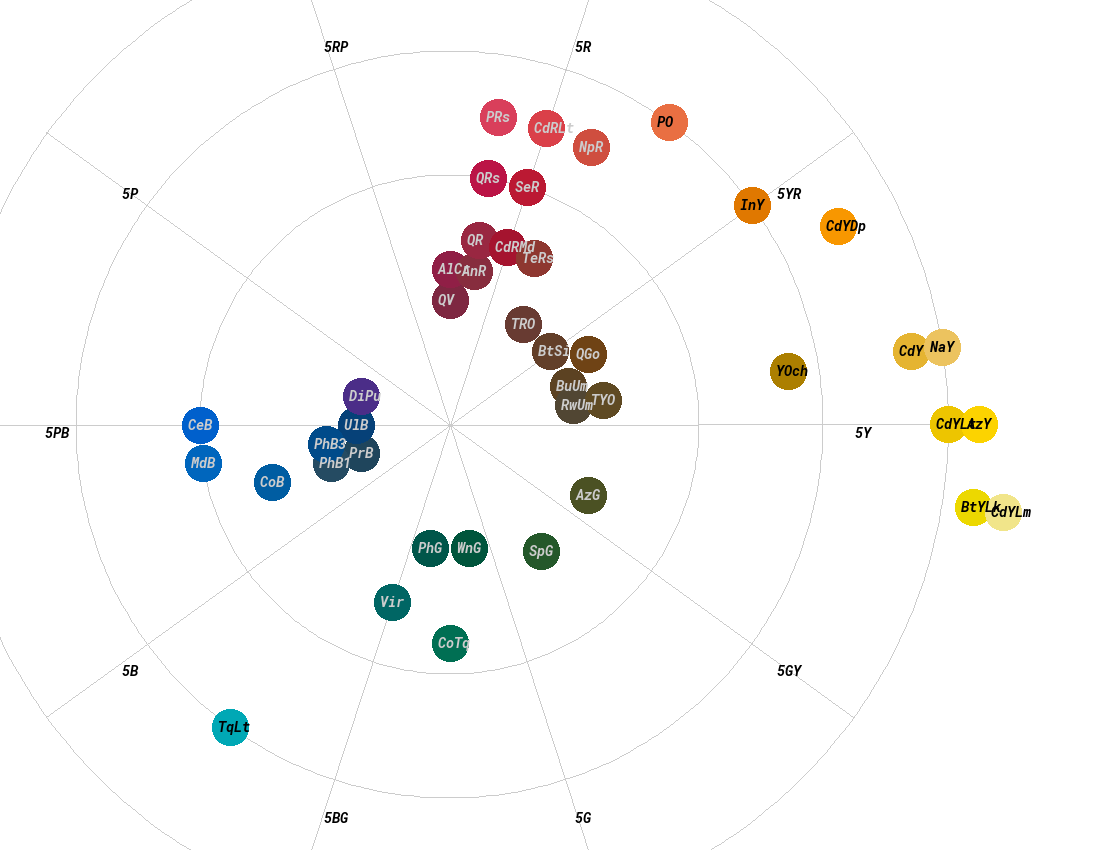
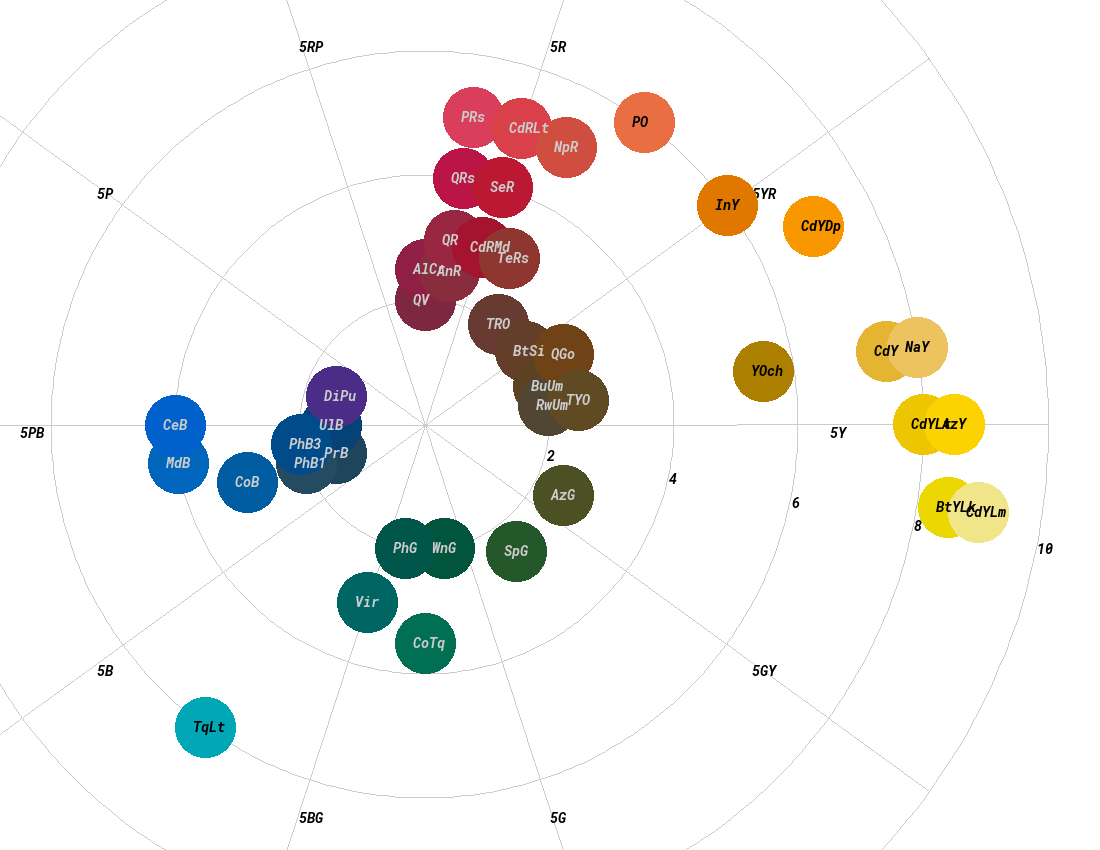
better polar graphics

diff --git a/palette_page/palette_grid.py b/palette_page/palette_grid.py
@@ -31,7 +31,7 @@ class PaletteGrid:
     image_w = 1100
     image_h = 850
 
-    x_center = 450
+    x_center = 425
     y_center = 425
 
     x_origin = 20
@@ -48,7 +48,8 @@ class PaletteGrid:
     patch_h = 40
     patch_h_stride = 90
 
-    dot_r = 18
+    dot_r = 30
+    dot_r_outer = 40
     polar_value_max = 6.5
 
     def __init__(self, polar=False):
@@ -59,8 +60,8 @@ class PaletteGrid:
         self.img = Image.new('RGB', (self.image_w, self.image_h), color = 'white')
         self.draw = ImageDraw.Draw(self.img)
 
-    def get_x(self, hue):
-        return self.x_origin + self.patch_w_stride * hue/10
+    def get_x(self, astm_hue):
+        return self.x_origin + self.patch_w_stride * astm_hue / 10.
 
     def get_y(self, value):
         return self.y_origin + self.patch_h_stride * (9.5 - value)
@@ -68,51 +69,74 @@ class PaletteGrid:
     def get_r(self, value):
         return value * (self.y_center - self.y_origin) / self.polar_value_max
 
-    def get_polar_xy(self, hue, value):
+    def get_polar_xy(self, astm_hue, value):
         r = self.get_r(value)
-        theta = hue * math.pi / 50.
+        theta = astm_hue * 2. * math.pi / 100.
         x = self.x_center + r * math.sin(theta)
         y = self.y_center - r * math.cos(theta)
         return (x, y)
 
     def draw_polar_grid(self):
-        for value in [4, 6, 8]:
+        for value in range(2, 12, 2):
             r = self.get_r(value)
             xy = (self.x_center - r, self.y_center - r, self.x_center + r, self.y_center + r)
             self.draw.ellipse(xy, fill = None, outline = '#cccccc')
+            xy = self.get_polar_xy(28, value)
+            self.draw.text(xy,
+                str(value), font = self.small_font, fill = '#000000', align = 'left')
 
-        for hue_label, hue in HUES:
+        for hue_label, astm_hue in HUES:
             if hue_label == '10RP':
                 continue
-            x, y = self.get_polar_xy(hue, 8)
+            x, y = self.get_polar_xy(astm_hue, 10)
             xy = [self.x_center, self.y_center, x, y]
             self.draw.line(xy, fill = '#cccccc')
-            xy = self.get_polar_xy(hue, 6.5)
+            xy = self.get_polar_xy(astm_hue, 6.5)
             self.draw.text(xy,
                 hue_label, font = self.small_font, fill = '#000000', align = 'left')
 
-    def draw_polar_patch(self, label, lpos, hue, value, r, g, b):
-        x, y = self.get_polar_xy(hue, value)
-        xy = (x - self.dot_r, y - self.dot_r, x + self.dot_r, y + self.dot_r)
-        if label is None:
-            fill = f'#{r:02X}{g:02X}{b:02X}'
-            self.draw.ellipse(xy, fill = fill)
+    def get_fill(self, hue, value, chroma):
+        if value <= 4:
+            adj_value = value * 0.5 + 2
         else:
-            xy = (x - 12, y - 8)
-            if value < 5.1:
-                fill = '#cccccc'
-            else:
-                fill = '#000000'
-            self.draw.text(xy,
-                label, font = self.small_font, fill = fill, align = 'center')
+            adj_value = value
+        munsell_color = f"{hue} {adj_value}/{chroma}"
+        rgb = mkit.munsell_color_to_rgb(munsell_color)
+        r, g, b = rgb
+        r = max(0, min(255, int(r * 255)))
+        g = max(0, min(255, int(g * 255)))
+        b = max(0, min(255, int(b * 255)))
+        return f'#{r:02X}{g:02X}{b:02X}'
+
+    def get_label_fill(self, value):
+        if value < 5.5:
+            return '#CCCCCC'
+        else:
+            return '#000000'
+
+    def draw_polar_label(self, label, astm_hue, value):
+        x, y = self.get_polar_xy(astm_hue, value)
+        xy = (x - self.dot_r, y - self.dot_r, x + self.dot_r, y + self.dot_r)
+        xy = (x - 12, y - 8)
+        self.draw.text(xy,
+            label, font = self.small_font, 
+            fill = self.get_label_fill(value), align = 'center')
+
+    def draw_polar_patch(self, astm_hue, hue, value, chroma):
+        x, y = self.get_polar_xy(astm_hue, value)
+        # xy = (x - self.dot_r_outer, y - self.dot_r_outer, 
+        #    x + self.dot_r_outer, y + self.dot_r_outer)
+        # self.draw.ellipse(xy, fill = self.get_fill(hue, value, 2))
+        xy = (x - self.dot_r, y - self.dot_r, x + self.dot_r, y + self.dot_r)
+        self.draw.ellipse(xy, fill = self.get_fill(hue, value, chroma))
 
     def draw_grid(self):
         self.draw.rectangle([5, 5, 1095, 845], outline = '#ccccff')
 
-        for hue_label, hue in HUES:
+        for hue_label, astm_hue in HUES:
             if hue_label == '10RP':
                 continue
-            x = self.get_x(hue)
+            x = self.get_x(astm_hue)
             y0 = self.get_y(9.5)
             y1 = self.get_y(1)
             xy = (x, y0, x, y1)
@@ -130,27 +154,28 @@ class PaletteGrid:
             self.draw.text((self.x_origin, y),
                 str(v), font = self.small_font, fill = '#000000', align = 'left')
 
-    def draw_patch(self, label, lpos, hue, value, r, g, b):
-        x0 = self.get_x(hue)
+    def draw_cartesian_label(self, label, lpos, astm_hue, value):
+        x0 = self.get_x(astm_hue)
+        y0 = self.get_y(value)
+        xy = (x0 + self.patch_w + 4, y0)
+        align = 'left'
+        if lpos == 'L':
+            xy = (x0 - 4, y0)
+            align = 'right'
+        elif lpos == 'T':
+            xy = (x0, y0 - 16)
+        elif lpos == 'B':
+            xy = (x0, y0 + self.patch_h + 4)
+        self.draw.text(xy,
+            label, font = self.small_font, fill = '#000000', align = align)
+
+    def draw_cartesian_patch(self, astm_hue, hue, value, chroma):
+        x0 = self.get_x(astm_hue)
         y0 = self.get_y(value)
         x1 = x0 + self.patch_w
         y1 = y0 + self.patch_h
         xy = (x0, y0, x1, y1)
-        if label is None:
-            fill = f'#{r:02X}{g:02X}{b:02X}'
-            self.draw.rectangle(xy, fill = fill)
-        else:
-            xy = (x1 + 4, y0)
-            align = 'left'
-            if lpos == 'L':
-                xy = (x0 - 4, y0)
-                align = 'right'
-            elif lpos == 'T':
-                xy = (x0, y0 - 16)
-            elif lpos == 'B':
-                xy = (x0, y0 + self.patch_h + 4)
-            self.draw.text(xy,
-                label, font = self.small_font, fill = '#000000', align = align)
+        self.draw.rectangle(xy, fill = self.get_fill(hue, value, chroma))
 
     def draw_patches(self):
         with open('my_colors.csv') as palette_file:
@@ -159,21 +184,14 @@ class PaletteGrid:
                 value = row['Value']
                 if astm_hue == '#N/A' or value == '':
                     continue
-                value = float(value)
                 astm_hue = float(astm_hue)
-                adj_value = value
-                if value <= 4:
-                    adj_value = value * 0.5 + 2
-                munsell_color = f"{row['Hue Value']}{row['Hue Name']} {adj_value}/{row['Chroma']}"
-                rgb = mkit.munsell_color_to_rgb(munsell_color)
-                r, g, b = rgb
-                r = max(0, min(255, int(r * 255)))
-                g = max(0, min(255, int(g * 255)))
-                b = max(0, min(255, int(b * 255)))
+                hue = f'''{row['Hue Value']}{row['Hue Name']}'''
+                value = float(value)
+                chroma = float(row['Chroma']) 
                 if self.polar:
-                    self.draw_polar_patch(None, None, astm_hue, value, r, g, b)
+                    self.draw_polar_patch(astm_hue, hue, value, chroma)
                 else:
-                    self.draw_patch(None, None, astm_hue, value, r, g, b)
+                    self.draw_cartesian_patch(astm_hue, hue, value, chroma)
 
         with open('my_colors.csv') as palette_file:
             for row in csv.DictReader(palette_file):
@@ -181,18 +199,12 @@ class PaletteGrid:
                 value = row['Value']
                 if astm_hue == '#N/A' or value == '':
                     continue
-                value = float(value)
                 astm_hue = float(astm_hue)
-                munsell_color = f"{row['Hue Value']}{row['Hue Name']} {value}/{row['Chroma']}"
-                rgb = mkit.munsell_color_to_rgb(munsell_color)
-                r, g, b = rgb
-                r = max(0, min(255, int(r * 255)))
-                g = max(0, min(255, int(g * 255)))
-                b = max(0, min(255, int(b * 255)))
+                value = float(value)
                 if self.polar:
-                    self.draw_polar_patch(row['Abbrev'], row['LPos'], astm_hue, value, r, g, b)
+                    self.draw_polar_label(row['Abbrev'], astm_hue, value)
                 else:
-                    self.draw_patch(row['Abbrev'], row['LPos'], astm_hue, value, r, g, b)
+                    self.draw_cartesian_label(row['Abbrev'], row['LPos'], astm_hue, value)
 
     def print_page(self):
         if self.polar:
